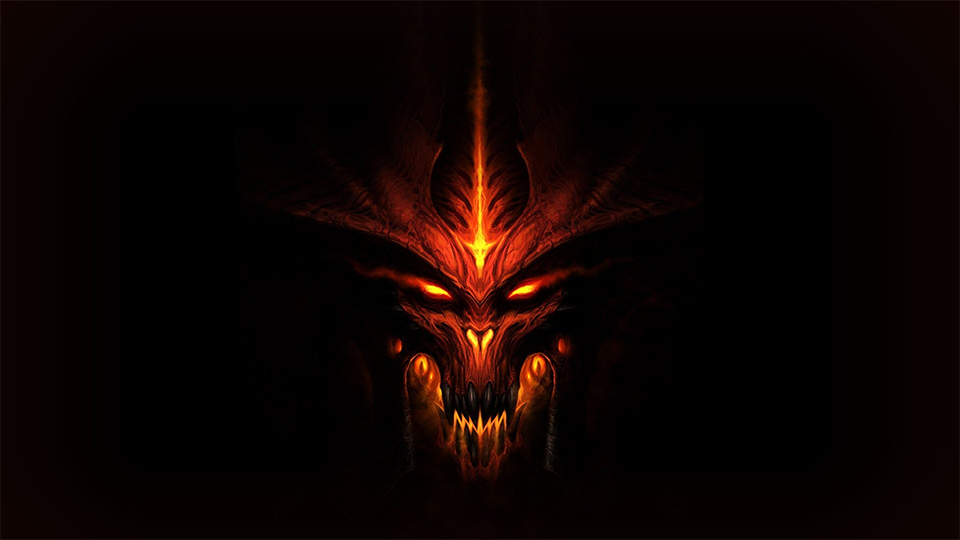
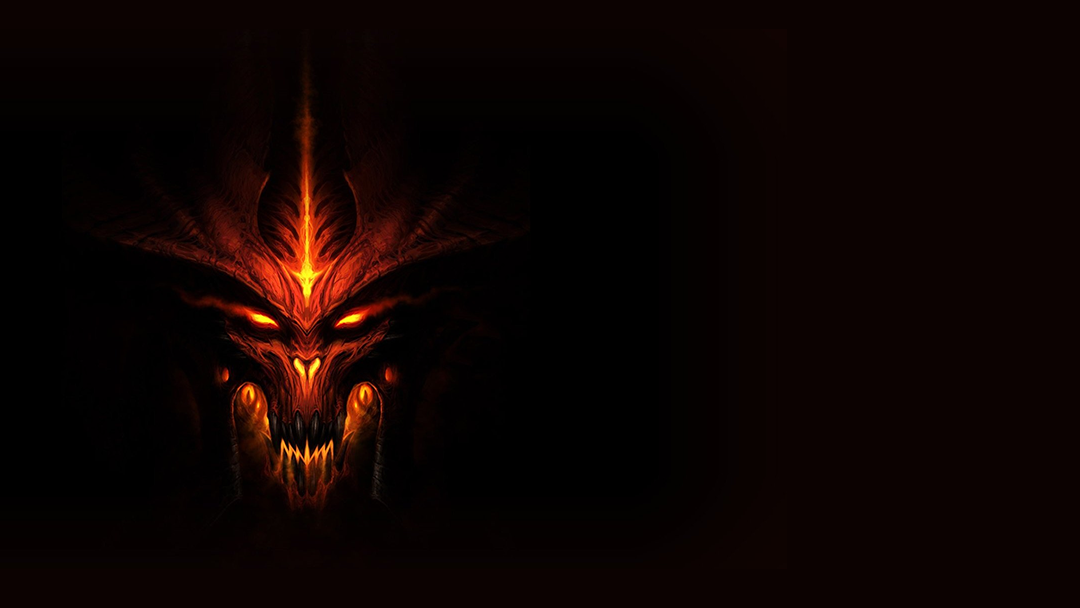
update Game room

Changed region(s): [[0.125, 0.1185, 0.6562, 0.8889]]

diff --git a/DeathWordRelayClient/src/GUI/GameRoom.java b/DeathWordRelayClient/src/GUI/GameRoom.java
@@ -27,8 +27,9 @@ public class GameRoom extends JFrame {
 	// private User oppUser; <- Not implemented yet. DO NOT ERASE.
 	
 	private static ImageIcon bgImg = new ImageIcon("Img/gameRoomBg.png");
-	private ImageIcon chat = new ImageIcon("Img/chatBg.png");
+	private ImageIcon chat = new ImageIcon("Img/gchatBg.png");
 	private static ImageIcon readyImg = new ImageIcon("Img/readyBt.png");
+	private static ImageIcon unreadyImg = new ImageIcon("Img/unreadyBt.png");
 	private static ImageIcon exitImg = new ImageIcon("Img/exitBt.png");
 	
 	private JPanel chatPanel = new JPanel(){
@@ -49,6 +50,7 @@ public class GameRoom extends JFrame {
 	
 	private static JButton exitBtn = new JButton(exitImg);
 	private static JButton readyBtn = new JButton(readyImg);
+	private static JButton unreadyBtn = new JButton(unreadyImg);
 
 	private Container cont;
 
@@ -59,7 +61,7 @@ public class GameRoom extends JFrame {
 		this.myUser = Client.curUser;
 
 		this.getContentPane().setLayout(null);
-		this.setBounds(0, 0, 960, 560);
+		this.setBounds(0, 0, 1080, 628);
 		this.setDefaultCloseOperation(JFrame.EXIT_ON_CLOSE);
 		chatPanel.setLayout(null);
 		this.setLocationRelativeTo(null);
@@ -72,11 +74,11 @@ public class GameRoom extends JFrame {
 		cont.add(exitBtn);
 		cont.add(background);
 
-		msgScrlPane.setBounds(10,20 ,529, 400);
+		msgScrlPane.setBounds(20,30 ,529, 430);
 		msgScrlPane.setOpaque(false);
 		msgScrlPane.getViewport().setOpaque(false);
 		
-		msgTxt.setBounds(10, 440, 529, 21);
+		msgTxt.setBounds(20, 490, 529, 31);
 		msgTxt.setOpaque(false);
 		msgTxt.setForeground(Color.white);
 		
@@ -84,18 +86,18 @@ public class GameRoom extends JFrame {
 		msgArea.setEditable(false);
 		msgArea.setForeground(Color.white);
 		
-		answerTxt.setBounds(10, 440, 529, 21);
+		answerTxt.setBounds(20, 490, 529, 31);
 		
-		chatPanel.setBounds(10, 20, 540, 540);
+		chatPanel.setBounds(20, 30, 550, 540);
 		
-		readyBtn.setBounds(650, 245, readyImg.getIconWidth(), readyImg.getIconHeight());
-		exitBtn.setBounds(800, 460, exitImg.getIconWidth(), exitImg.getIconHeight());
-	
+		readyBtn.setBounds(740, 255, readyImg.getIconWidth(), readyImg.getIconHeight());
 		readyBtn.setBackground(Color.red);
 		readyBtn.setBorderPainted(false);
 		readyBtn.setFocusPainted(false);
 		readyBtn.setContentAreaFilled(false);		
 	
+		
+		exitBtn.setBounds(910, 510, exitImg.getIconWidth(), exitImg.getIconHeight());
 		exitBtn.setBackground(Color.red);
 		exitBtn.setBorderPainted(false);
 		exitBtn.setFocusPainted(false);
@@ -150,7 +152,9 @@ public class GameRoom extends JFrame {
 				isReady = !isReady;
 				Client.AreYouReady(isReady);
 				if (isReady) {
-					readyBtn.setText("Unready");
+					
+					
+					
 					msgArea.append("Waiting for other player...\n");
 				} else {
 					readyBtn.setText("Ready");
